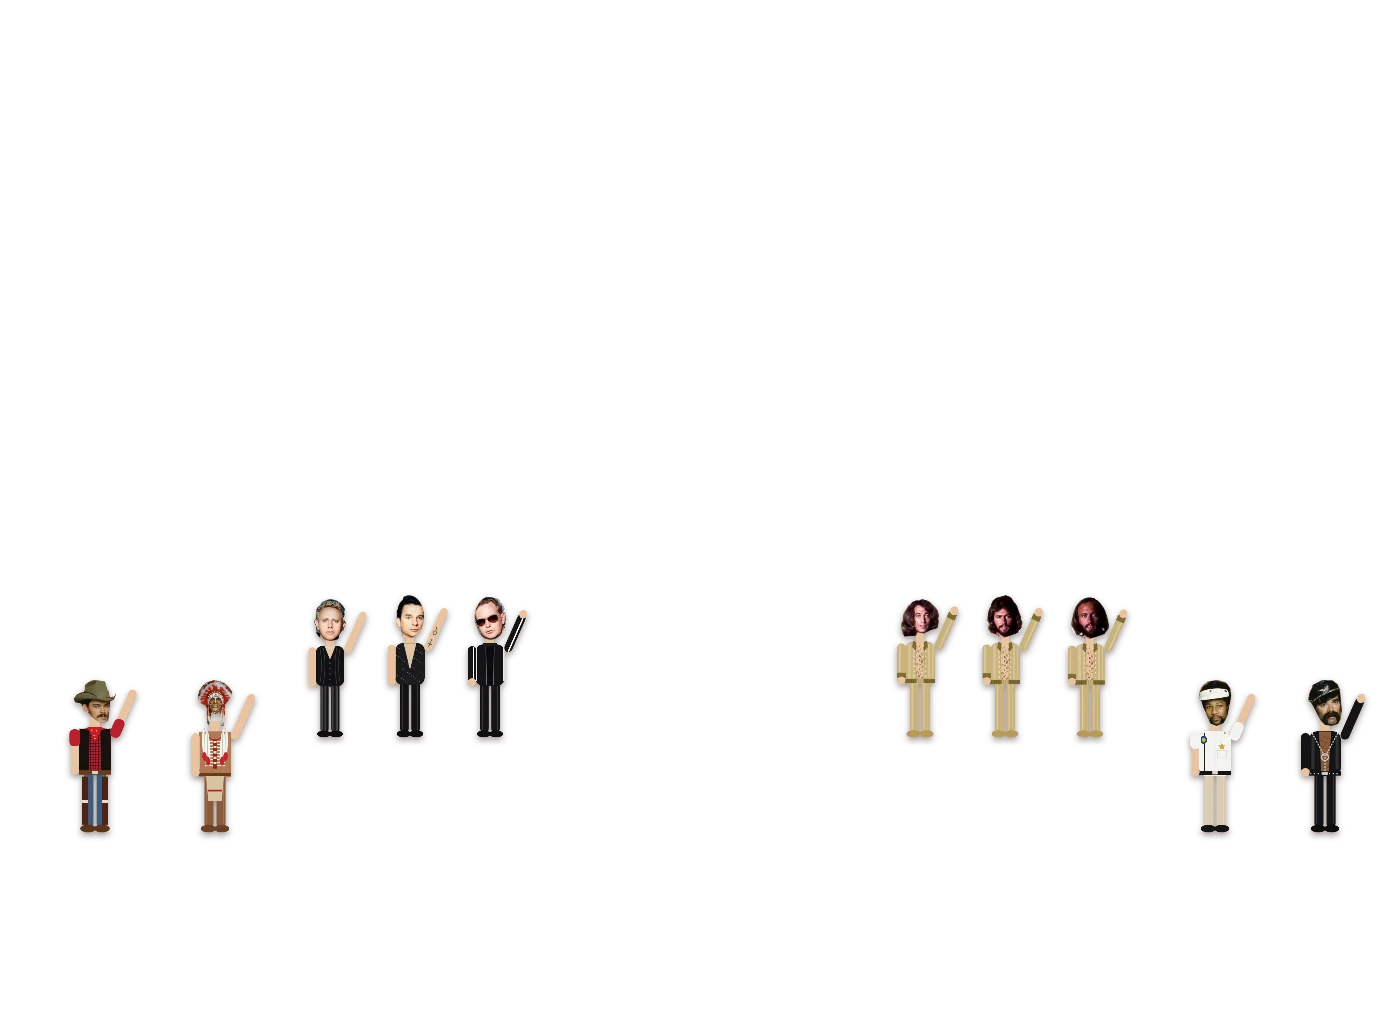
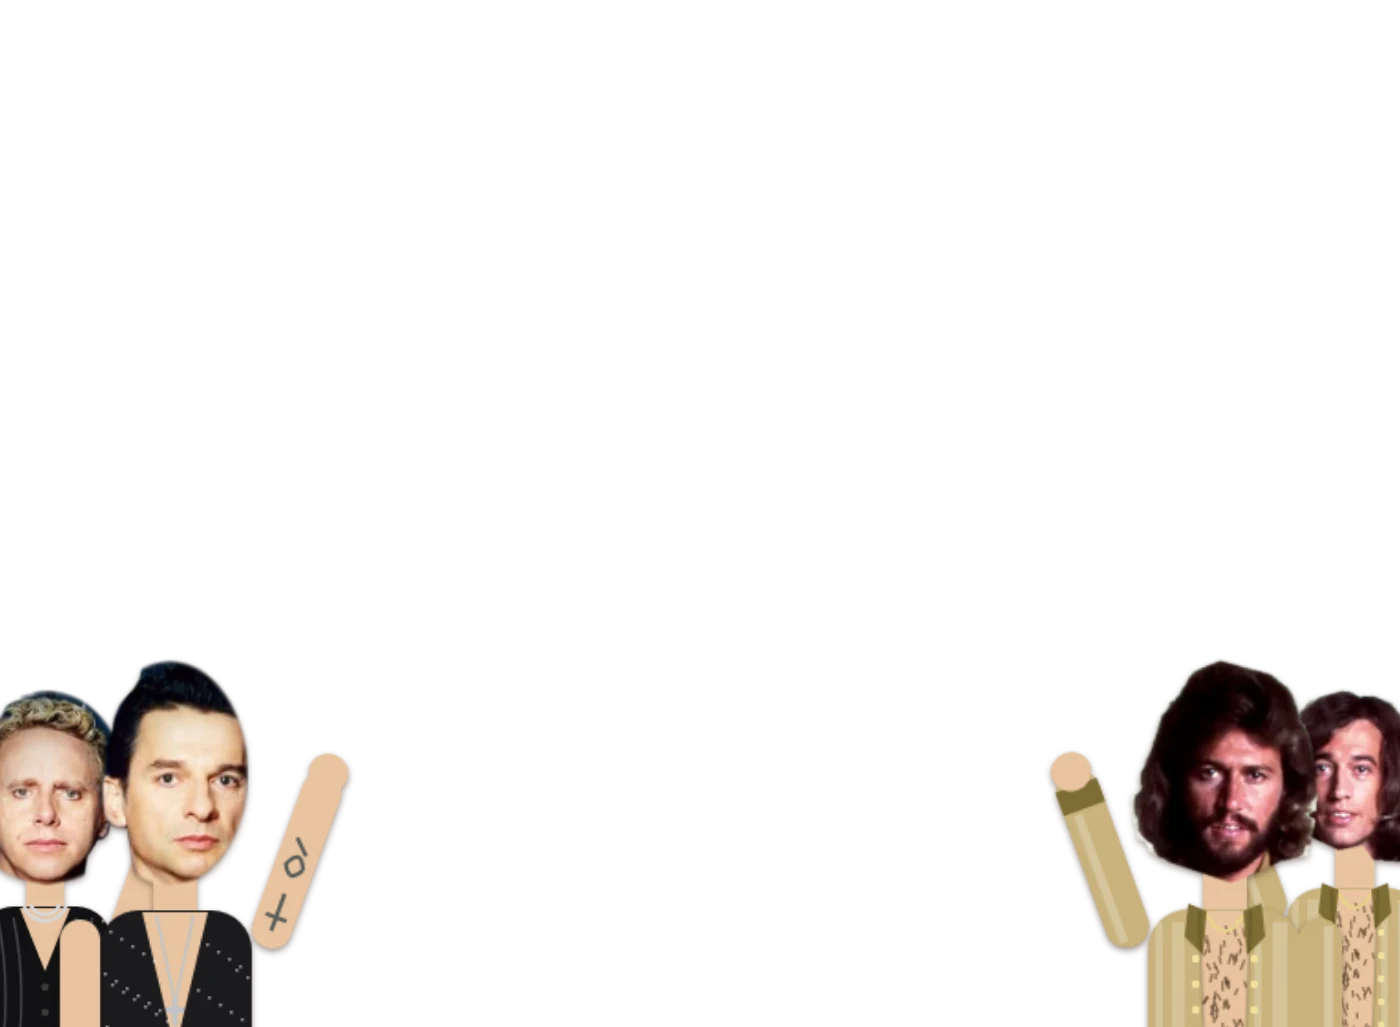
Page d'accueil : Depeche Mode et les Bee Gees en grand, qui dépassent des bords du porche et font coucou (5.01)
Claude-Session: https://claude.ai/code/session_01WYc8bcxVUTnPR8YQxCHawi

Changed region(s): [[0.6143, 0.5609, 1.0, 1.0], [0.0, 0.5609, 0.3993, 1.0]]

diff --git a/public/index.html b/public/index.html
@@ -3033,7 +3033,7 @@
 
   /* ===== Version de l'appli et nouveautés (la plus récente en premier) ===== */
   const VERSIONS = [
-    ["5.01", "16 octobre 2026", ["Page d'accueil : des petits musiciens et chanteurs de la caserne (Depeche Mode, les Bee Gees, les Village People) font coucou de part et d'autre de la plaque", "Page d'accueil : un grand bouton « 🎮 Entrer dans la caserne en 3D »", "L'onglet devient « Caserne en 3D », mis en avant avec son badge « Jouer »", "S.O.S. Fantômes : l'affiche du mess est là pour tout le monde"]],
+    ["5.01", "16 octobre 2026", ["Page d'accueil : Depeche Mode d'un côté, les Bee Gees de l'autre, qui dépassent des bords du porche et font coucou", "Page d'accueil : un grand bouton « 🎮 Entrer dans la caserne en 3D »", "L'onglet devient « Caserne en 3D », mis en avant avec son badge « Jouer »", "S.O.S. Fantômes : l'affiche du mess est là pour tout le monde"]],
     ["5.00", "16 octobre 2026", ["Apocalypse : le titre RESIDENT EVIL à l'arrivée, sur la caserne vue du ciel où errent les zombies, puis la vue plonge vers la déchetterie", "Apocalypse : beaucoup plus de zombies", "Apocalypse : plus d'aide pour trouver le fumigène ; l'hélicoptère passe de temps en temps au-dessus de la caserne sans nous voir, et un équipier dit qu'il faut trouver un fumigène", "Apocalypse : l'hélicoptère ne tourne plus sur lui-même avant de se poser", "Apocalypse : on lève le bras pour tirer (de dos, le bras tendu devant soi)"]],
     ["4.99", "16 octobre 2026", ["La nuit, les fenêtres allumées (et les silhouettes derrière) ne clignotent plus quand on bouge", "S.O.S. Fantômes : l'affiche du mess est entière, centrée sur le mur, au-dessus du lambris", "Bouffe-tout se laisse vaincre un peu plus vite", "S.O.S. Fantômes : le géant de guimauve explose pour de vrai (boule de feu, fumée, onde de choc, braises)", "Silent Hill : au réveil, la caméra suit enfin dans le bar du sous-sol (on n'est plus bloqué à l'entrée)", "Silent Hill : plus de dialogues de gendarmes pendant la radio et le titre"]],
     ["4.98", "16 octobre 2026", ["S.O.S. Fantômes : l'aventure commence devant l'affiche du film, au mess (dans la petite pièce à droite en entrant) : « 👻 As-tu peur des fantômes ? » — le grand titre, puis l'Ecto-1 arrive (le temps des essais : l'administrateur seul la voit ; la plaque ECTO-1 n'est plus là)", "Plus difficile : Bouffe-tout est plus résistant et plus dur à toucher, il attaque plus souvent ; le Bibendum est plus résistant et lance ses blocs plus vite", "Les Ghostbusters vus de dos : de vraies têtes (plus de trous)", "La discussion avant le géant sur « Midnight Atlas » ; la scène finale, drôle, sur la chanson du film : le chef de poste trépigne de rage", "Le Bibendum Chamallow rugit avec un vrai cri de monstre"]],

diff --git a/public/matrice.js b/public/matrice.js
@@ -458,7 +458,7 @@ export function dessinerBonhomme(o, tete) {
       const disco = DISCO[o.pose], doigt = disco && sens < 0;
       // accroupi : chaque main va sur un genou (sur le genou opposé quand ils se croisent)
       // au Madison : on frappe dans les mains (madison2), ou les bras se balancent
-      const cible = o.pose === "coucou1" && sens < 0 ? [196, 58] : o.pose === "coucou2" && sens < 0 ? [164, 40]   /* (il fait coucou : la main levée, qui s'agite) */
+      const cible = o.pose === "coucou1" && sens < 0 ? [184, 70] : o.pose === "coucou2" && sens < 0 ? [152, 62]   /* (il fait coucou : la main levée, qui s'agite) */
         : o.tirDos && sens < 0 ? [150, 92]   /* (de dos, il tire devant lui : le bras droit levé, tendu vers l'avant) */
         : o.mainsMur ? (sens > 0 ? [18, 112] : [182, 112]) : accroupi ? [(sens > 0 ? GEN[0] : GEN[1])[0], (sens > 0 ? GEN[0] : GEN[1])[1] - DY - 4] : o.pose === "madison2" ? [sens > 0 ? 95 : 105, 228]
         : o.pose === "madison4" ? [sens > 0 ? 46 : 62, 312] : o.pose === "madison5" ? [sens > 0 ? 138 : 154, 312]
